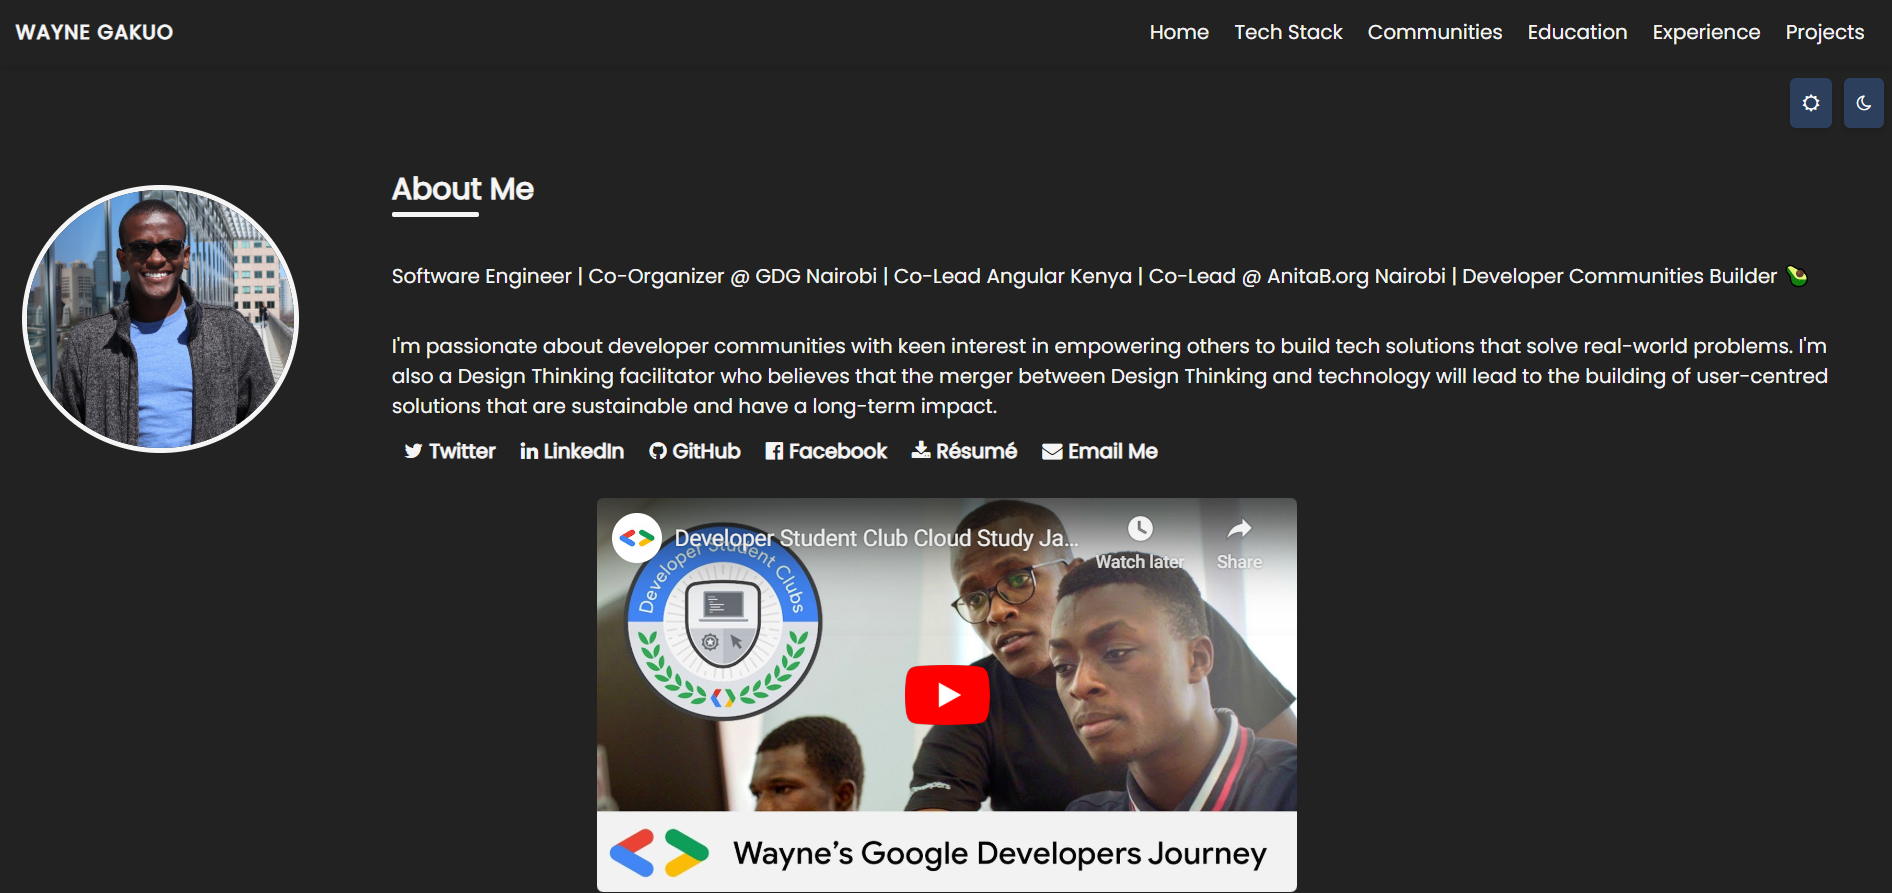
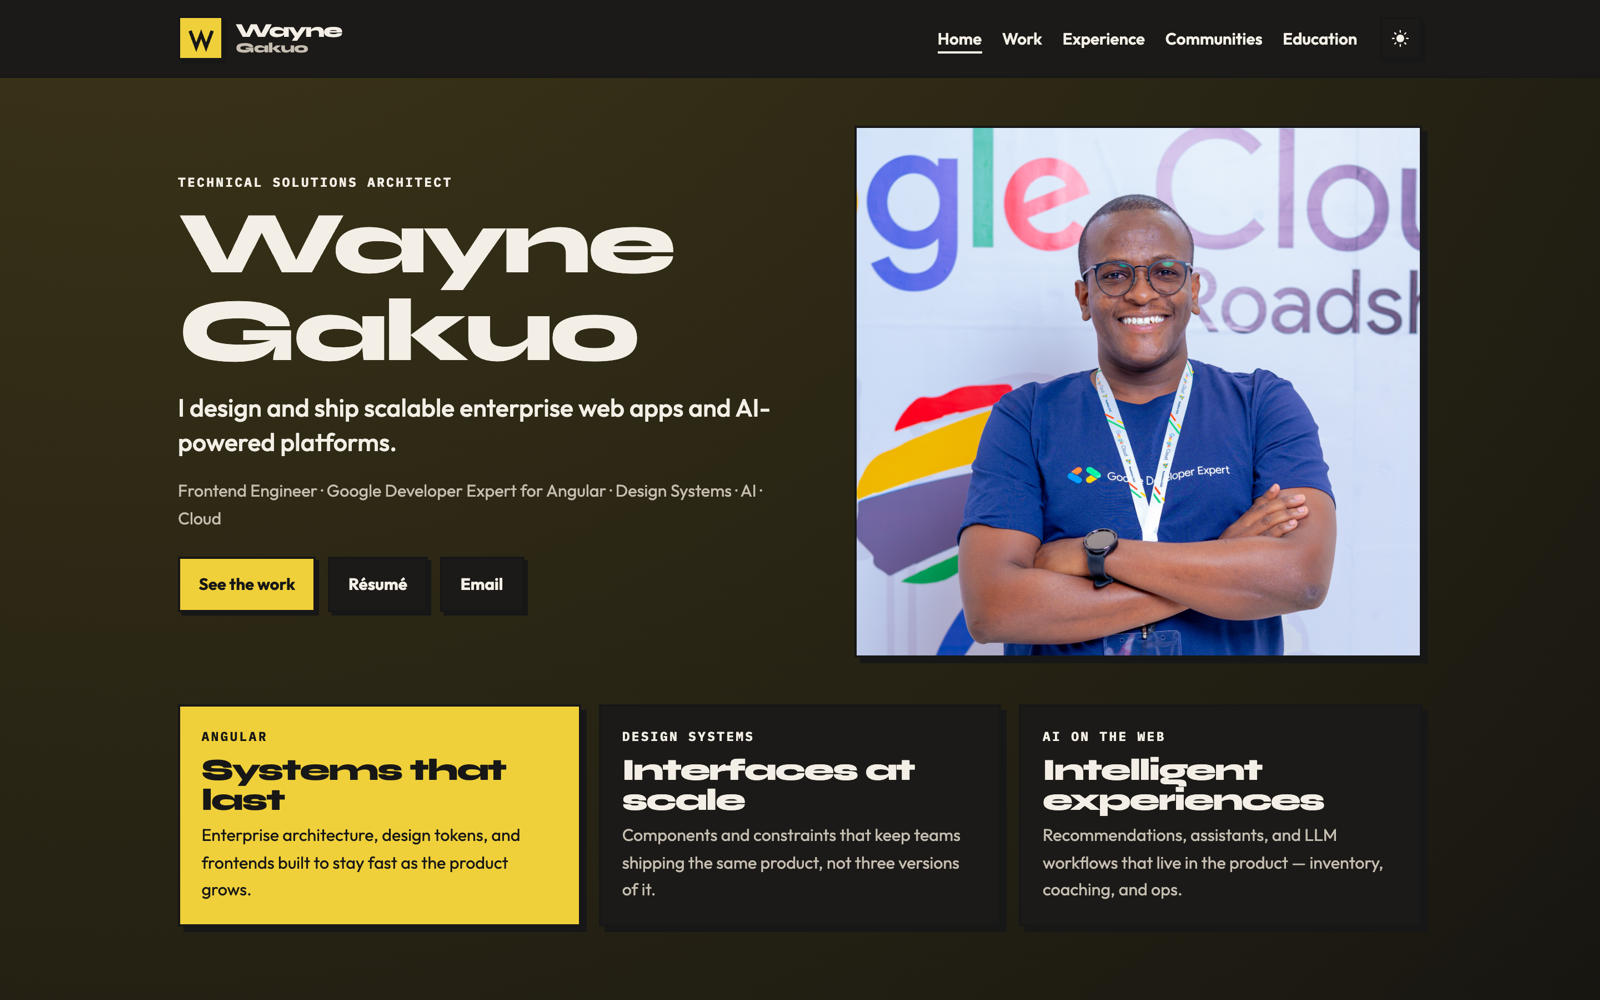
docs(readme): overhaul README for clarity and easier customization
- Simplified project description and structure.
- Added light/dark mode screenshots.
- Expanded "Get started" and "Make it yours" sections with detailed customization steps.
- Updated deployment instructions and scripts for Firebase Hosting.
- Improved readability and organization with new headings and examples.

diff --git a/README.md b/README.md
@@ -1,32 +1,74 @@
-# Wayne Gakuo — Portfolio
+# Portfolio
 
-Server-rendered Angular portfolio with a neo-brutalist interface. It showcases experience, shipped work, community leadership, education, talks, and a downloadable résumé.
+An open-source personal site you can fork and make your own. The live example is [Wayne Gakuo](https://waynegakuo.web.app) — Technical Solutions Architect and Google Developer Expert for Angular — but the content, assets, and branding are all data-driven so you can swap in your own work, roles, and voice.
 
-## Stack
+MIT licensed. Fork it, restyle it, ship it.
 
-- Angular 22 with `@angular/ssr` (SSR + prerender)
-- Standalone components, lazy routes, hydration
-- SCSS neo-brutalist design system
+### Light mode
 
-## Prerequisites
+![Portfolio screenshot — light mode](public/assets/img/portfolio.png)
 
-Node.js **22.22.3+**, **24.15+**, or **26+** (this repo includes `.nvmrc` for Node 26).
+### Dark mode
+
+![Portfolio screenshot — dark mode](public/assets/img/dark_portfolio.png)
+
+## What’s included
+
+- Home, work, experience, communities, education, and a 404
+- Typed content in one file (projects, roles, talks, stack, SEO)
+- Light and dark theme
+- Angular 22 with SSR and prerendered routes, so pages stay indexable
+- Firebase Hosting deploy script (or point the `browser` output at any static host)
+
+## Get started
+
+Node.js **22.22.3+**, **24.15+**, or **26+**. This repo has a `.nvmrc` for 26.
 
 ```bash
+git clone https://github.com/waynegakuo/portfolio.git
+cd portfolio
 nvm use
 npm install
-```
-
-## Scripts
-
-```bash
-npm start                 # SSR-enabled dev server
-npm run build             # Production browser + server bundles, prerendered routes
-npm run serve:ssr:portfolio-ssr
+npm start
 ```
 
 Dev server: [http://localhost:4200](http://localhost:4200)
 
+## Make it yours
+
+Almost everything people see lives in data and assets. You should not need to rewrite the app.
+
+1. **Copy and identity** — edit `src/app/core/data/portfolio.data.ts`. `SITE`, socials, projects, experience, communities, education, talks, stack, and page titles all start there.
+2. **Images and résumé** — replace files under `public/assets/` (portrait, project shots, logos, `resume/`). Keep the paths in `SITE` and the project entries in sync.
+3. **Favicon** — swap `public/favicon-16.png`, `public/favicon-32.png`, `public/favicon-192.png`, `public/apple-touch-icon.png`, and `public/favicon.ico`.
+4. **Header mark** — the W lockup is inline SVG in `src/app/layout/site-header/site-header.html`.
+5. **SEO** — update `SITE.url`, `src/index.html` (title, description, JSON-LD), `public/sitemap.xml`, and `public/robots.txt`.
+6. **Look and feel** — tokens in `src/styles.scss` (`:root` and `html[data-theme='dark']`) control paper, ink, yellow, and type.
+
+If you add or rename routes, also update `src/app/app.routes.ts` and `src/app/app.routes.server.ts` so new pages prerender.
+
+## Scripts
+
+```bash
+npm start                      # SSR-enabled dev server
+npm run build                  # Production browser + server bundles, prerendered routes
+npm run serve:ssr:portfolio-ssr
+npm run deploy                 # Prerender and deploy to the Firebase project in .firebaserc
+```
+
 ## Deploy
 
-`npm run build` prerenders Home, Work, Experience, Communities, and Education. Publish `dist/portfolio-ssr/browser` (Netlify config is included) or run the Express server in `dist/portfolio-ssr/server`.
+`npm run build` writes prerendered HTML to `dist/portfolio-ssr/browser`. That folder is what you host.
+
+**Firebase Hosting** (what this repo uses):
+
+1. Install the Firebase CLI (already a dev dependency) and log in: `npx firebase login`
+2. Create your own project, then set it in `.firebaserc`
+3. Change `SITE.url` and the sitemap/robots/JSON-LD hosts to your `*.web.app` (or custom) domain
+4. Run `npm run deploy`
+
+**Anywhere else:** publish `dist/portfolio-ssr/browser` as static files. Keep `cleanUrls` (or equivalent) so `/work` serves `work/index.html`. Do not rewrite every path to the home `index.html` or you lose per-page SEO.
+
+## License
+
+[MIT](LICENSE.md). Use it for your own portfolio. A credit in the footer is welcome, not required.
